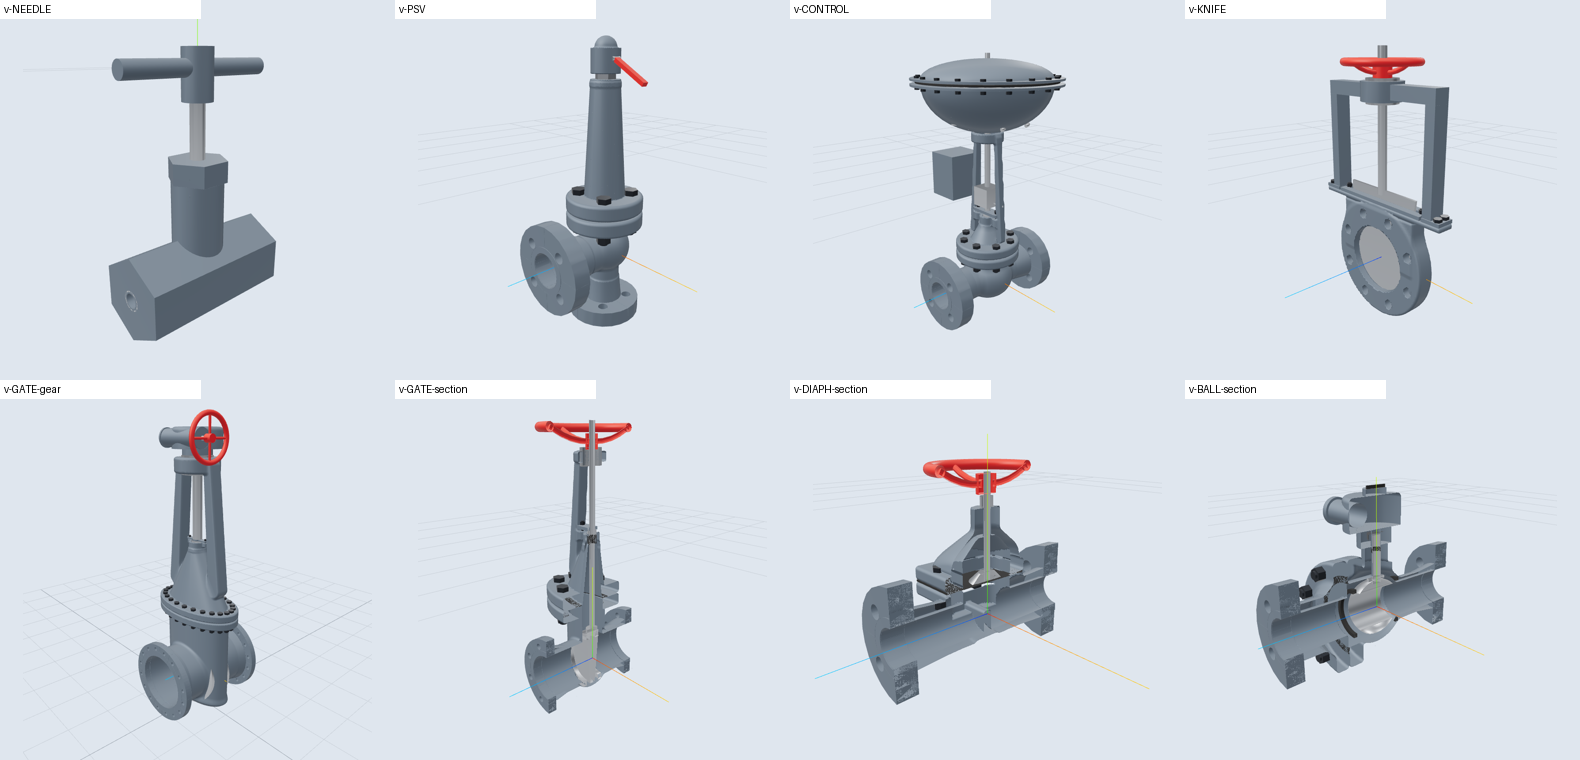
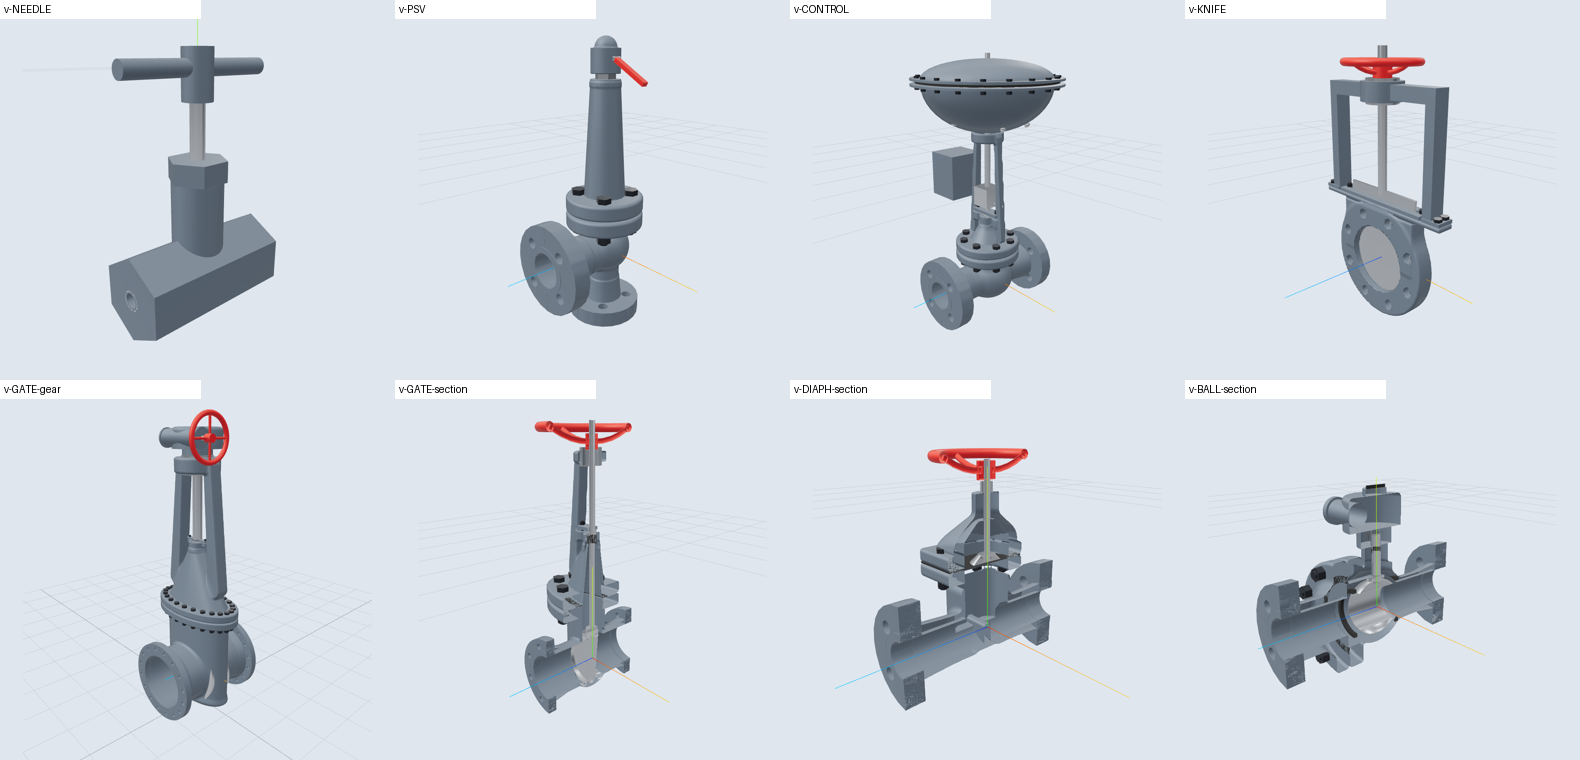
Valves: diaphragm square flanges raised clear above the end flanges (P-50)
Claude-Session: https://claude.ai/code/session_01Lq1n1j5QwqtUtCwYEt9hS4

Changed region(s): [[0.5272, 0.575, 0.6823, 0.9382]]

diff --git a/smartweld/src/catalogue/parts/valves.ts b/smartweld/src/catalogue/parts/valves.ts
@@ -707,8 +707,8 @@ const buildDiaph: Build = (b, NPS, cls, dims, notes) => {
   const D0 = pipeDims(NPS, cls).D, c = common(NPS, cls, 1.6 * D0, 1.6 * D0); c.wBody = 1.6 * D0 + 2 * c.tb; c.F2F = 2 * c.f.tf + 2 * c.hHub + c.wBody;
   const { D, tb, P } = c, zi = c.F2F / 2 - c.f.tf, k = blendK(c);
   endFlanges(b, c);
-  const Ro = 0.8 * D, yF = D / 2 + tb + 0.25 * D,   // DI-1: body flange face above the pipe axis
-    fb = designFlange(NPS, cls, 2 * Ro, tb, 2 * Ro + 2 * tb), hs = Ro + tb + 2.2 * fb.d, td = Math.max(0.125, 0.03 * D);
+  const Ro = 0.8 * D, fb = designFlange(NPS, cls, 2 * Ro, tb, 2 * Ro + 2 * tb), yF = c.f.OD / 2 + 0.25 + fb.tf,   // DI-1: square flange clear above the end flanges
+    hs = Ro + tb + 2.2 * fb.d, td = Math.max(0.125, 0.03 * D);
   const yLo = -(D / 2 + tb), yHi = yF - fb.tf;
   // F-8: the body flares from each flange hub into the body (no bare run tube)
   const rH = D / 2 + 2 * tb, rBf = 0.75 * (Ro + tb), zb = Ro + tb;

diff --git a/smartweld/PROVENANCE.md b/smartweld/PROVENANCE.md
@@ -68,6 +68,7 @@ appended.
 | P-47 | 2026-11-01 | Viewer: plant piping views (overview, rack, pumps, column, exchangers, tanks, plan, walk) and a line inspector (bill of materials, weld list with shop/field, supports, highlighted line). Display-only level of detail, dimensions unchanged: valves within 40 ft of the eye on a 40-cell marching grid, farther ones on 18; tees drawn as run and branch pipe meeting at a sharp crotch (the blended tee casting needs 260k triangles at its wall-limited grid). Stated simplifications: concentric reducers only (pump suctions); no insulation; instrument and sample connections end at a valve and blind (no instruments); control valves without bypasses; no stress analysis or expansion loops (anchors and guides placed by rule only); nozzle-to-shell welds belong to equipment fabrication and are not recorded; supports are checked for a clear rod or post path, not for full clearance. |
 | P-48 | 2026-10-31 | User review of the valve contact sheets: the knife gate and diaphragm valve "don't look right" and the trunnion-mounted ball valve "is not a real valve shape". Accepted. Reworked by reasoning from the generic arrangement of each type (P-39), no source consulted, rules amended in DESIGN_BASIS.md before the code: K-1 (knife gate body as one casting — lugged ring rising into a gate chest with packing box and top flange; gland plates on short studs; straight parallel yoke legs with bolted feet and a yoke plate, replacing splayed tapered arms and box-built housing); F-8 (diaphragm body flares from the flange hubs into the body; bonnet square at its flange and round above, rising to a round spindle neck, replacing a low dome on bare run tubes); BT-1 (trunnion ball body OD BC_j + 3.5 d_j with edges rounded 1.5 d_j; end adapters taper over their full radial drop with a neck of at least 0.25 D; bolted stem-housing and trunnion covers on raised bosses; mounting spool to the operator; saddle feet from 8 in). Load-carrying sizes (bore, walls, stems, thrust, torque, flanges, bolting) unchanged. Stage-4 test updated for the amended BT-1 body diameter. Plant piping unaffected (it uses no knife, diaphragm or trunnion ball valves). |
 | P-49 | 2026-10-31 | User decision after the P-48 rework: the trunnion-mounted ball valve and the dual-plate wafer check "should not exist"; the diaphragm valve stays but its body must be raised. Done: TBALL and DCHECK removed from the catalogue (type list, offering, builders, configurator, tests, renders); rules BT-* and CD-* retired in DESIGN_BASIS.md with a withdrawal note. The floating ball's rule B-1 had borrowed its body and adapter construction from BT-1; that construction is now written out in B-1 itself, unchanged. DI-1 amended before the code: the diaphragm body's top flange face stands D/2 + t_b + 0.25 D above the pipe axis (was 0.3 D), so the body and bonnet sit above the run between the end flanges. The catalogue now has 16 valve types. Plant piping unaffected (it uses gate, ball, swing check, control and safety valves only). README, IP_REVIEW.md, contact sheets and the counsel statement updated to 16 types. |
+| P-50 | 2026-10-31 | User review of the raised diaphragm valve: "the square flanges should raise above the round flanges". DI-1 amended before the code: the underside of the square body flange stands 1/4 in above the rim of the round end flanges (flange face at OD_end/2 + 1/4 in + the body flange thickness above the pipe axis); the body casting rises to it. Load-carrying sizes unchanged; plant piping unaffected. |
 | P-10 | 2026-10-31 | Architecture decision: the part model is plain JSON-serialisable data (`PartSpec` with per-dimension basis tags). Geometry (`geometry/`) converts it to profile polygons and mesh arrays without any renderer dependency. The three.js viewer and the ground-truth export both consume the same data. |
 
 ## External resources

diff --git a/smartweld/DESIGN_BASIS.md b/smartweld/DESIGN_BASIS.md
@@ -1035,9 +1035,11 @@ Diaphragm, weir type (`SW-VLV-DI-*`). Sizes 1/2–12, classes up to P300 (the di
 the pressure boundary).
 
 - `DI-1` Body: run bore D with a weir rising 0.6 D at mid-length; the body rises above the
-  run so that its top (bolting) flange face stands D/2 + t_b + 0.25 D above the pipe axis
-  (amended on user review from 0.3 D, P-49: the body and bonnet sat too low between the end
-  flanges; the raised body gives the diaphragm a deeper bowl to close into); a round top opening of
+  run so that the underside of its square (bolting) flange stands 1/4 in above the rim of the
+  round end flanges, i.e. its flange face at OD_end/2 + 1/4 in + the body flange thickness
+  above the pipe axis (amended on user review twice: from 0.3 D, then from D/2 + t_b + 0.25 D,
+  P-49, P-50: the square body and bonnet flanges must stand clear above the round end
+  flanges); a round top opening of
   diameter 1.6 D with a flat bolting flange; diaphragm a polymer disc 1.6 D + 2 t_f in diameter
   and max(1/8 in, 0.03 D) thick, clamped by the bonnet flange with studs per SW-FLG-3/4 on the
   opening; bonnet a rounded dome of the flange diameter and height 0.45 × its diameter with
